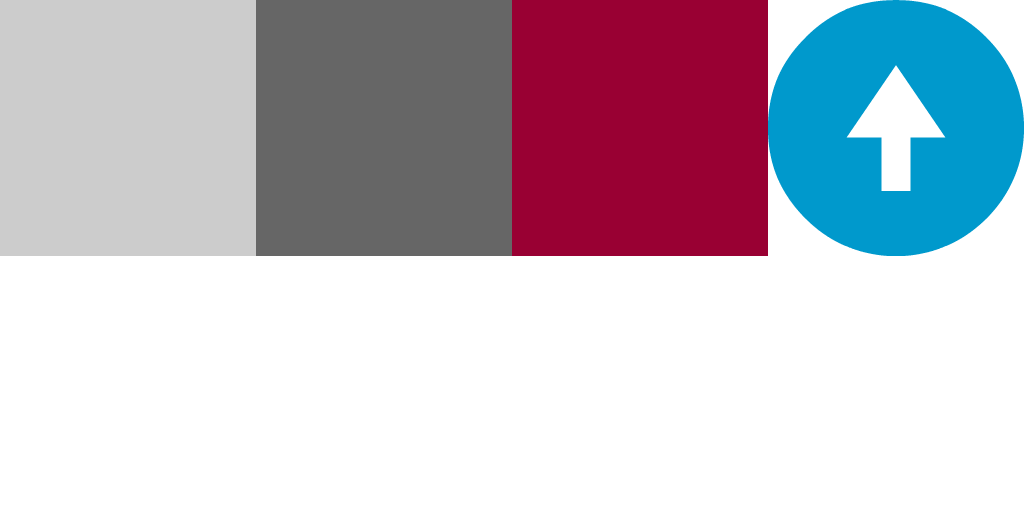
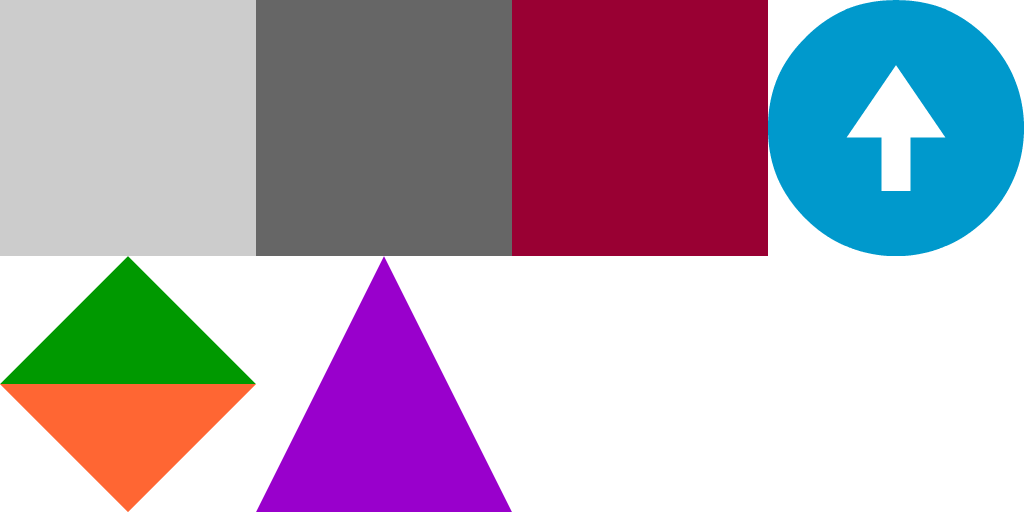
2 fixtures

Changed region(s): [[0.25, 0.5, 0.5, 1.0], [0.0, 0.5, 0.25, 1.0]]

diff --git a/core/src/com/mygdx/game/DistBox2D.java b/core/src/com/mygdx/game/DistBox2D.java
@@ -11,6 +11,7 @@ import com.badlogic.gdx.math.Polygon;
 import com.badlogic.gdx.math.Vector2;
 import com.badlogic.gdx.physics.box2d.Box2DDebugRenderer;
 import com.badlogic.gdx.physics.box2d.World;
+import com.badlogic.gdx.utils.Array;
 import com.badlogic.gdx.utils.ScreenUtils;
 
 public class DistBox2D extends ApplicationAdapter {
@@ -30,6 +31,7 @@ public class DistBox2D extends ApplicationAdapter {
 	TextureRegion imgBoxMediumGray;
 	TextureRegion imgBoxPurple;
 	TextureRegion imgCircle;
+	TextureRegion imgTriangle;
 	TextureRegion imgLoot;
 
 	// собственные объекты и переменные
@@ -38,7 +40,7 @@ public class DistBox2D extends ApplicationAdapter {
 
 	KinematicBody platform;
 
-	DynamicBody[] loot = new DynamicBody[33];
+	Array<DynamicBody> loot = new Array<>();
 	
 	@Override
 	public void create () {
@@ -53,21 +55,26 @@ public class DistBox2D extends ApplicationAdapter {
 		imgBoxMediumGray = new TextureRegion(imgLootAtlas, 256, 0, 256, 256);
 		imgBoxPurple = new TextureRegion(imgLootAtlas, 256*2, 0, 256, 256);
 		imgCircle = new TextureRegion(imgLootAtlas, 256*3, 0, 256, 256);
+		imgTriangle = new TextureRegion(imgLootAtlas, 256, 256, 256, 256);
 
 		floor = new StaticBody(world, 8, 0.6f, 15, 1);
 		wallLeft = new StaticBody(world, 0.6f, 5, 1, 7);
 		wallRight = new StaticBody(world, 16-0.6f, 5, 1, 7);
 		platform = new KinematicBody(world, 0, 3, 4, 0.5f);
-		for (int i = 0; i < loot.length; i++) {
-			if(i<10) {
-				Polygon polygon = new Polygon(new float[]{0, 0.5f, -0.5f, -0.5f, 0.5f, -0.5f});
-				loot[i] = new DynamicBody(world, 8 + MathUtils.random(-0.01f, 0.01f), 8 + i * 2, polygon);
-			} else if(i<20) {
-				loot[i] = new DynamicBody(world, 8 + MathUtils.random(-0.01f, 0.01f), 8 + i * 2, 0.4f);
-			}
-			else {
-				loot[i] = new DynamicBody(world, 8 + MathUtils.random(-0.01f, 0.01f), 8 + i * 2, 1.2f, 0.6f);
-			}
+		for (int i = 0; i < 10; i++) {
+			Polygon polygon = new Polygon(new float[]{0, 0.5f, -0.5f, -0.5f, 0.5f, -0.5f});
+			loot.add(new DynamicBody(world, 2 + MathUtils.random(-0.01f, 0.01f), 8 + i * 2, polygon));
+		}
+		for (int i = 0; i < 10; i++) {
+			loot.add(new DynamicBody(world, 4 + MathUtils.random(-0.01f, 0.01f), 8 + i * 2, 0.4f));
+		}
+		for (int i = 0; i < 10; i++) {
+				loot.add(new DynamicBody(world, 6 + MathUtils.random(-0.01f, 0.01f), 8 + i * 2, 1.2f, 0.6f));
+		}
+		for (int i = 0; i < 10; i++) {
+			Polygon polygon1 = new Polygon(new float[]{-0.5f, 0.5f, 0, 1, 0.5f, 0.5f});
+			Polygon polygon2 = new Polygon(new float[]{-0.5f, 0.5f, 0.5f, 0.5f, 0.5f, -0.5f, -0.5f, -0.5f});
+			loot.add(new DynamicBody(world, 8 + MathUtils.random(-0.01f, 0.01f), 8 + i * 2, polygon1, polygon2));
 		}
 	}
 
@@ -90,6 +97,7 @@ public class DistBox2D extends ApplicationAdapter {
 		for(DynamicBody b: loot){
 			if(b.type == TYPE_CIRCLE) imgLoot = imgCircle;
 			else if (b.type == TYPE_BRICK) imgLoot = imgBoxPurple;
+			else if (b.type == TYPE_POLY) imgLoot = imgTriangle;
 
 			batch.draw(imgLoot, b.getX(), b.getY(), b.getWidth()/2, b.getHeight()/2,
 					b.getWidth(), b.getHeight(), 1, 1, b.getAngle());

diff --git a/core/src/com/mygdx/game/DynamicBody.java b/core/src/com/mygdx/game/DynamicBody.java
@@ -25,6 +25,7 @@ public class DynamicBody {
         this.x = x;
         this.y = y;
         this.r = r;
+        width = height = r*2;
 
         BodyDef bodyDef = new BodyDef();
         bodyDef.type = BodyDef.BodyType.DynamicBody;
@@ -44,7 +45,6 @@ public class DynamicBody {
         Fixture fixture = body.createFixture(fixtureDef);
 
         shape.dispose();
-        width = height = r*2;
     }
 
     public DynamicBody(World world, float x, float y, float width, float height) {
@@ -80,8 +80,8 @@ public class DynamicBody {
 
         this.x = x;
         this.y = y;
-        this.width = width;
-        this.height = height;
+        this.width = p.getBoundingRectangle().getWidth();
+        this.height = p.getBoundingRectangle().getHeight();
 
         BodyDef bodyDef = new BodyDef();
         bodyDef.type = BodyDef.BodyType.DynamicBody;
@@ -99,6 +99,48 @@ public class DynamicBody {
         fixtureDef.restitution = 0.6f;
 
         Fixture fixture = body.createFixture(fixtureDef);
+
+        shape.dispose();
+    }
+
+    public DynamicBody(World world, float x, float y, Polygon p1, Polygon p2) {
+        type = TYPE_POLY;
+
+        this.x = x;
+        this.y = y;
+        //this.width = p.getBoundingRectangle().getWidth();
+        //this.height = p.getBoundingRectangle().getHeight();
+
+        BodyDef bodyDef = new BodyDef();
+        bodyDef.type = BodyDef.BodyType.DynamicBody;
+        bodyDef.position.set(x, y);
+
+        body = world.createBody(bodyDef);
+        // тело 1
+        PolygonShape shape = new PolygonShape();
+        shape.set(p1.getVertices());
+
+        FixtureDef fixtureDef = new FixtureDef();
+        fixtureDef.shape = shape;
+        fixtureDef.density = 0.5f;
+        fixtureDef.friction = 0.4f;
+        fixtureDef.restitution = 0.6f;
+
+        Fixture fixture1 = body.createFixture(fixtureDef);
+
+        shape.dispose();
+
+        // тело 2
+        shape = new PolygonShape();
+        shape.set(p2.getVertices());
+
+        fixtureDef = new FixtureDef();
+        fixtureDef.shape = shape;
+        fixtureDef.density = 0.5f;
+        fixtureDef.friction = 0.4f;
+        fixtureDef.restitution = 0.6f;
+
+        Fixture fixture2 = body.createFixture(fixtureDef);
 
         shape.dispose();
     }
